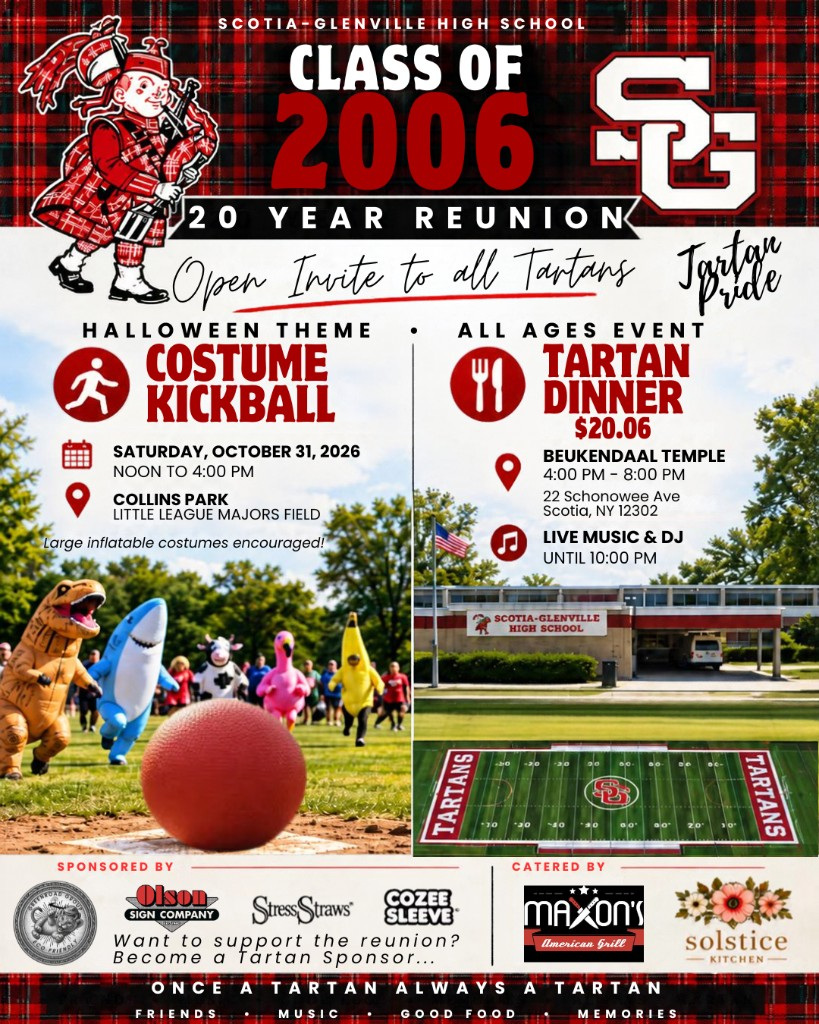
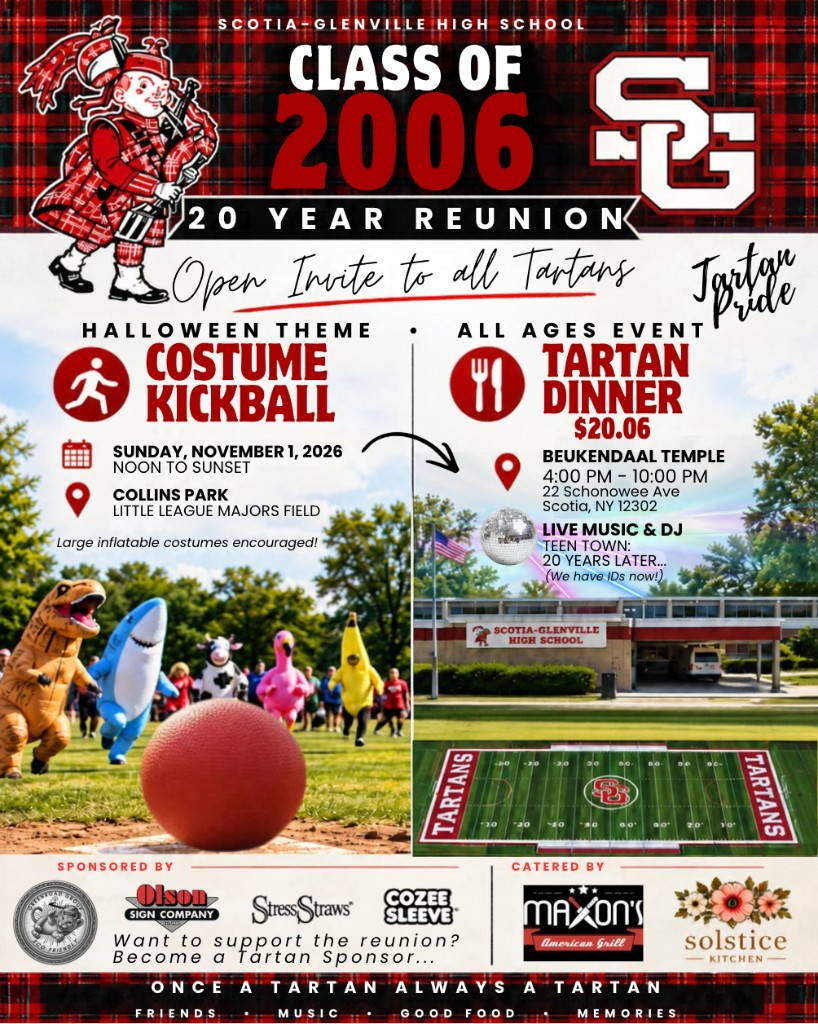
Update reunion to November 1 schedule

diff --git a/app/events/scotia-2006/page.tsx b/app/events/scotia-2006/page.tsx
@@ -10,15 +10,15 @@ const POSTER_PATH = "/events/scotia-2006/reunion-poster.jpg";
 export const metadata: Metadata = {
   title: "SGHS Class of 2006 20-Year Reunion | Greenroad",
   description:
-    "Reunion details and dinner tickets for Saturday, October 31, 2026.",
+    "Reunion details and dinner tickets for Sunday, November 1, 2026.",
   openGraph: {
     title: "SGHS Class of 2006 20-Year Reunion",
     description:
-      "Costume Kickball, Tartan Dinner, and live music on Saturday, October 31, 2026.",
+      "Costume Kickball, Tartan Dinner, live music, and Teen Town on Sunday, November 1, 2026.",
     images: [
       {
         url: POSTER_PATH,
-        width: 819,
+        width: 818,
         height: 1024,
         alt: "SGHS Class of 2006 20-Year Reunion poster",
       },
@@ -58,14 +58,14 @@ export default function Scotia2006EventPage() {
           <article className={styles.eventCard}>
             <div className={styles.tartanRibbon}>
               <span>Community Discovery</span>
-              <span>Saturday · October 31 · 2026</span>
+              <span>Sunday · November 1 · 2026</span>
             </div>
 
             <div className={styles.heroMedia}>
               <Image
                 src={POSTER_PATH}
                 alt="SGHS Class of 2006 20-Year Reunion poster"
-                width={819}
+                width={818}
                 height={1024}
                 sizes="(max-width: 640px) calc(100vw - 1.25rem), 28rem"
                 className={styles.heroImage}
@@ -77,8 +77,8 @@ export default function Scotia2006EventPage() {
               <p className={styles.eyebrow}>Scotia-Glenville High School</p>
               <h1 id="event-title">Class of 2006 20-Year Reunion</h1>
               <p className={styles.eventIntro}>
-                Costume Kickball, Tartan Dinner, and live music—open to
-                Tartans.
+                Costume Kickball, Tartan Dinner, live music, and Teen
+                Town—open to Tartans.
               </p>
 
               <div className={styles.ticketCallout}>
@@ -112,7 +112,7 @@ export default function Scotia2006EventPage() {
             <summary>Costume Kickball</summary>
             <div>
               <p>
-                <strong>Noon–4 PM · Collins Park</strong>
+                <strong>Noon to sunset · Collins Park</strong>
               </p>
               <p>
                 Little League Majors Field. Free, all ages, and open to
@@ -125,11 +125,13 @@ export default function Scotia2006EventPage() {
             <summary>Tartan Dinner &amp; Music</summary>
             <div>
               <p>
-                <strong>4–8 PM · music and DJ until 10 PM</strong>
+                <strong>4:00–10:00 PM · Beukendaal Temple</strong>
               </p>
               <p>
-                Beukendaal Temple
-                <br />
+                Live music and DJ. Teen Town: 20 years later… (We have IDs
+                now!)
+              </p>
+              <p>
                 22 Schonowee Ave
                 <br />
                 Scotia, NY 12302

diff --git a/lib/reunion-confirmation-email.ts b/lib/reunion-confirmation-email.ts
@@ -76,11 +76,12 @@ export async function sendReunionConfirmationEmail(
     `${order.quantity} ${ticketLabel}`,
     `${numberLabel}: ${ticketNumbers.join(", ")}`,
     "",
-    "Saturday, October 31, 2026",
-    "Costume Kickball: Noon–4 PM, Collins Park",
-    "Tartan Dinner: 4–8 PM, Beukendaal Temple",
+    "Sunday, November 1, 2026",
+    "Costume Kickball: Noon to sunset, Collins Park",
+    "Tartan Dinner: 4:00–10:00 PM, Beukendaal Temple",
     "22 Schonowee Ave, Scotia, NY 12302",
-    "Live Music & DJ until 10 PM",
+    "Live Music & DJ",
+    "Teen Town: 20 years later… (We have IDs now!)",
     "",
     "View Reunion Page",
     reunionUrl,
@@ -141,17 +142,17 @@ export async function sendReunionConfirmationEmail(
                     <table role="presentation" width="100%" cellpadding="0" cellspacing="0" border="0" style="width:100%;border-top:1px solid #c9a84c;">
                       <tr>
                         <td style="padding:12px 0;border-bottom:1px solid #c9a84c;font-family:Arial,Helvetica,sans-serif;font-size:16px;line-height:1.5;color:#1a4a2e;">
-                          <strong>Saturday, October 31, 2026</strong>
+                          <strong>Sunday, November 1, 2026</strong>
                         </td>
                       </tr>
                       <tr>
                         <td style="padding:12px 0;border-bottom:1px solid #c9a84c;font-family:Arial,Helvetica,sans-serif;font-size:16px;line-height:1.5;color:#1a4a2e;">
-                          Costume Kickball: Noon–4 PM, Collins Park
+                          Costume Kickball: Noon to sunset, Collins Park
                         </td>
                       </tr>
                       <tr>
                         <td style="padding:12px 0;border-bottom:1px solid #c9a84c;font-family:Arial,Helvetica,sans-serif;font-size:16px;line-height:1.5;color:#1a4a2e;">
-                          Tartan Dinner: 4–8 PM, Beukendaal Temple
+                          Tartan Dinner: 4:00–10:00 PM, Beukendaal Temple
                         </td>
                       </tr>
                       <tr>
@@ -160,8 +161,13 @@ export async function sendReunionConfirmationEmail(
                         </td>
                       </tr>
                       <tr>
+                        <td style="padding:12px 0;border-bottom:1px solid #c9a84c;font-family:Arial,Helvetica,sans-serif;font-size:16px;line-height:1.5;color:#1a4a2e;">
+                          Live Music &amp; DJ
+                        </td>
+                      </tr>
+                      <tr>
                         <td style="padding:12px 0;font-family:Arial,Helvetica,sans-serif;font-size:16px;line-height:1.5;color:#1a4a2e;">
-                          Live Music &amp; DJ until 10 PM
+                          Teen Town: 20 years later… (We have IDs now!)
                         </td>
                       </tr>
                     </table>

diff --git a/GREENROAD_MEMORY.md b/GREENROAD_MEMORY.md
@@ -1,6 +1,6 @@
 # Greenroad Memory — Agent Handoff
 
-**Last synced:** September 21, 2026 (reunion public facts + Reunion World presentation)
+**Last synced:** October 1, 2026 (reunion poster moved to November 1)
 
 Read `GREENROAD_MEMORY_MAP.md` first, then this file. Do not assume pearl/olive work is on an experiment branch — that is outdated.
 
@@ -20,7 +20,7 @@ Homepage default:  POD Adventure Brite Tumbler 20 oz (app/page.tsx)
 Checkout/proof:    NOT live — inquiry mailto only; manual ADG proof before production
 Full ADG catalog:  NOT live — 7 starter ADG items only
 published field:   Does NOT gate UI — all discoveries render regardless of published:false
-Reunion route:     /events/scotia-2006 presentation exists. Payment, webhook, Supabase, migration, and email code are frozen during presentation work. This is not proof that live sales are open.
+Reunion route:     /events/scotia-2006 presentation exists. Payment, webhook, Supabase, and migration code stay frozen. Confirmation email fact lines match the November 1 poster. This is not proof that live sales are open.
 ```
 
 `experiment/pearl-print-surface` is **historical/backed up**. Pearl/olive material system is live on main.
@@ -33,17 +33,18 @@ Reunion route:     /events/scotia-2006 presentation exists. Payment, webhook, Su
 
 ---
 
-## SGHS Class of 2006 Reunion (locked September 21, 2026)
+## SGHS Class of 2006 Reunion (public facts updated October 1, 2026)
 
 This is the first real Greenroad Community discovery and the only approved
 Stripe exception. Custom Goods remains inquiry-only.
 
 ```text
 Permanent route:       /events/scotia-2006
-Date / time zone:      Saturday, October 31, 2026 / America/New_York
-Costume Kickball:      Collins Park, Little League Majors Field / noon–4 PM / free / all ages / open to Tartans / large inflatable costumes encouraged
-Tartan Dinner:         Beukendaal Temple / 4–8 PM
-Live music and DJ:     until 10 PM
+Date / time zone:      Sunday, November 1, 2026 / America/New_York
+Costume Kickball:      Collins Park, Little League Majors Field / noon to sunset / free / all ages / open to Tartans / large inflatable costumes encouraged
+Tartan Dinner:         Beukendaal Temple / 4:00–10:00 PM
+Live music and DJ:     during the 4:00–10:00 PM Beukendaal block
+Teen Town:             20 years later… (We have IDs now!)
 Dinner address:        22 Schonowee Ave, Scotia, NY 12302
 Ticket total:          $20.06 each, tax included; never add tax on top
 Batch 1:               80 tickets
@@ -101,7 +102,9 @@ Phase 1 artifacts were completed September 21, 2026:
 3. create reviewable Supabase migration SQL
 
 Reunion World presentation at `/events/scotia-2006` is authorized. Do not edit
-payment, webhook, Supabase, migration, or email code during presentation work.
+payment, webhook, Supabase, or migration code during presentation work.
+Confirmation email fact lines were updated October 1, 2026 to match the
+November 1 poster; leave the rest of that email alone.
 This note does not verify that migrations are applied or that live sales are open.
 
 ---
@@ -513,12 +516,13 @@ The SGHS Class of 2006 reunion is the only approved Stripe exception. Permanent
 route: /events/scotia-2006. Batch 1: 80 tickets, max_per_order 8 in batch data,
 30-minute buyer Checkout, 35-minute pre-Stripe safety hold, $20.06 total per
 dinner ticket tax included.
-Canonical public facts: Costume Kickball noon–4 PM at Collins Park, Little
-League Majors Field; Tartan Dinner 4–8 PM at Beukendaal Temple, 22 Schonowee
-Ave, Scotia, NY 12302; live music and DJ until 10 PM; $20.06 tax included.
+Canonical public facts: Sunday, November 1, 2026. Costume Kickball noon to
+sunset at Collins Park, Little League Majors Field; Tartan Dinner 4:00–10:00 PM
+at Beukendaal Temple, 22 Schonowee Ave, Scotia, NY 12302; live music and DJ;
+Teen Town: 20 years later… (We have IDs now!); $20.06 tax included.
 Never show a public inventory count. Reunion World presentation is authorized.
-Do not edit payment, webhook, Supabase, migration, or email code. No git, no
-.env. Do not assume live sales are open.
+Do not edit payment, webhook, Supabase, or migration code. Confirmation email
+fact lines match this poster. No git, no .env. Do not assume live sales are open.
 ```
 
 ### Surgical ADG product add

diff --git a/GREENROAD_MEMORY_MAP.md b/GREENROAD_MEMORY_MAP.md
@@ -31,7 +31,7 @@ Custom goods are the first practical sales lane because they match Jai's current
 
 **Better everyday goods are the trust and content engine.**
 
-## Reunion Ticketing Exception (Locked September 21, 2026)
+## Reunion Ticketing Exception (public facts updated October 1, 2026)
 
 The SGHS Class of 2006 reunion is the first real Greenroad Community discovery
 and the only currently authorized Stripe commerce build.
@@ -39,13 +39,14 @@ and the only currently authorized Stripe commerce build.
 Locked boundaries:
 
 * Permanent public route: `/events/scotia-2006`
-* Event date: Saturday, October 31, 2026
+* Event date: Sunday, November 1, 2026
 * Time zone: `America/New_York`
-* Costume Kickball: noon–4 PM, Collins Park, Little League Majors Field,
+* Costume Kickball: noon to sunset, Collins Park, Little League Majors Field,
   Scotia, NY. Free, all ages, open to Tartans. Large inflatable costumes
   are encouraged
-* Tartan Dinner: 4–8 PM, Beukendaal Temple, 22 Schonowee Ave, Scotia, NY 12302
-* Live music and DJ until 10 PM
+* Tartan Dinner: 4:00–10:00 PM, Beukendaal Temple, 22 Schonowee Ave, Scotia, NY 12302
+* Live music and DJ during that Beukendaal block
+* Teen Town: 20 years later… (We have IDs now!)
 * Current public artwork: `public/events/scotia-2006/reunion-poster.jpg`.
   Logos printed inside that poster may show with the artwork. Do not add
   those logos to the Hometown Partners section unless Jai approves them
@@ -460,10 +461,12 @@ Phase 1 artifacts were created September 21, 2026:
 2. restore or park the previous broad Stripe scope
 3. create reviewable Supabase migration SQL without applying it
 
-Public reunion facts were corrected later on September 21, 2026 to the current
-poster: noon–4 PM kickball, 4–8 PM dinner, Scotia, NY 12302. Reunion World
+Public reunion facts were updated October 1, 2026 to the current poster:
+Sunday, November 1, 2026; noon-to-sunset kickball; 4:00–10:00 PM dinner with
+live music, DJ, and Teen Town; Scotia, NY 12302. Reunion World
 presentation at `/events/scotia-2006` is authorized. Do not edit payment,
-webhook, Supabase, migration, or email code during presentation work. Do not
+webhook, Supabase, or migration code during presentation work. Confirmation
+email fact lines match this poster. Do not
 treat this note as proof that live ticket sales are open.
 Do not use git, read `.env` / `.env.local`, touch live Stripe, or apply Supabase
 migrations.
@@ -551,7 +554,7 @@ Do not build yet:
 * full ADG catalog
 * Custom Goods payment / Stripe
 * generic checkout, invoicing, Terminal/POS, or subscriptions
-* edits to reunion payment, webhook, Supabase, migration, or email code during
+* edits to reunion payment, webhook, Supabase, or migration code during
   presentation work
 * proof editor
 * account system
@@ -598,7 +601,7 @@ GOSHBOT should warn when:
 * a sequential capacity test is represented as proof of concurrent safety;
   pre-launch QA requires a real two-session database concurrency test
 * accordion or section headings are left on forest backdrop without pearl reading surfaces where legibility fails
-* public reunion copy uses noon–sunset, a 5 PM dinner, or a Schenectady address
+* public reunion copy uses October 31, a noon–4 PM kickball, a 4–8 PM dinner, a 5 PM dinner, or a Schenectady address
 * a public reunion surface shows a ticket inventory count or “only 80 tickets”
 
 ## One-Sentence Current Truth
@@ -606,6 +609,7 @@ GOSHBOT should warn when:
 Greenroad Group is an upscale better-goods and custom-goods commerce project:
 sustainability is the north star, Custom Goods Station remains inquiry-only,
 and the SGHS Class of 2006 reunion is the sole approved Stripe exception.
-Canonical public facts match the current reunion poster, and Reunion World
+Canonical public facts match the November 1, 2026 reunion poster, and Reunion World
 presentation is authorized at `/events/scotia-2006`. Payment, webhook,
-Supabase, migration, and email code stay frozen unless Jai opens that work.
+Supabase, and migration code stay frozen unless Jai opens that work.
+Confirmation email fact lines match the poster.

diff --git a/AGENT_NOTES.md b/AGENT_NOTES.md
@@ -24,14 +24,16 @@ Begin every build session with:
 
 The SGHS Class of 2006 reunion is the only approved Stripe exception.
 
-Canonical public facts match the current poster: Costume Kickball noon–4 PM
-at Collins Park, Little League Majors Field; Tartan Dinner 4–8 PM at
-Beukendaal Temple, 22 Schonowee Ave, Scotia, NY 12302; live music and DJ
-until 10 PM; dinner tickets $20.06, tax included. Never show a public
+Canonical public facts match the November 1, 2026 poster: Costume Kickball
+noon to sunset at Collins Park, Little League Majors Field; Tartan Dinner
+4:00–10:00 PM at Beukendaal Temple, 22 Schonowee Ave, Scotia, NY 12302;
+live music and DJ; Teen Town: 20 years later… (We have IDs now!); dinner
+tickets $20.06, tax included. Never show a public
 inventory count or “only 80 tickets.”
 
 Reunion World presentation at `/events/scotia-2006` is authorized. Do not
-edit payment, webhook, Supabase, migration, or email code. Do not assume
+edit payment, webhook, Supabase, or migration code. Confirmation email fact
+lines match this poster. Do not assume
 live sales are open. Custom Goods remains inquiry-only. Do not touch Custom
 Goods carousel physics.
 
@@ -65,11 +67,11 @@ Reunion route:     /events/scotia-2006 presentation exists. Payment machinery is
 
 - First real Community discovery: SGHS Class of 2006 reunion
 - Permanent route: `/events/scotia-2006`
-- Saturday, October 31, 2026; `America/New_York`
-- Costume Kickball: Collins Park, Little League Majors Field, noon–4 PM,
+- Sunday, November 1, 2026; `America/New_York`
+- Costume Kickball: Collins Park, Little League Majors Field, noon to sunset,
   free, all ages, open to Tartans; large inflatable costumes encouraged
 - Tartan Dinner: Beukendaal Temple, 22 Schonowee Ave, Scotia, NY 12302,
-  4–8 PM; live music and DJ until 10 PM
+  4:00–10:00 PM; live music and DJ; Teen Town: 20 years later… (We have IDs now!)
 - Current public artwork is `public/events/scotia-2006/reunion-poster.jpg`.
   Logos printed into the poster may show with the artwork. Hometown Partners
   stays logo-free until Jai approves those businesses as web sponsors.
@@ -182,7 +184,7 @@ Memory docs synced: `GREENROAD_MEMORY.md`, knowledge base, PRD, roadmap, session
 | UX-001 | High | Print legibility over forest backdrop — accordion triggers + section headings need pearl scrims; test all room backgrounds |
 | UX-002 | Later | Live ADG color swatches + logo quick-render preview |
 | UX-003 | Later | ADG proof approval gate — quick render is draft; ADG mockup required before production |
-| EVT-001 | Presentation | Reunion public facts match the current poster. Reunion World presentation is authorized. Payment, webhook, Supabase, migration, and email code stay frozen |
+| EVT-001 | Presentation | Reunion public facts match the November 1, 2026 poster. Reunion World presentation is authorized. Payment, webhook, Supabase, and migration code stay frozen. Confirmation email fact lines match the poster |
 
 ---
 

diff --git a/LAUNCH_ROADMAP.md b/LAUNCH_ROADMAP.md
@@ -164,12 +164,13 @@ ZEYODA is internal-only parent/foundation memory and should not appear in public
 The SGHS Class of 2006 reunion is the sole approved Stripe exception. Custom
 Goods remains inquiry-only.
 
-Canonical public facts, corrected September 21, 2026 from the current poster:
+Canonical public facts, updated October 1, 2026 from the current poster:
 
-- Costume Kickball, noon–4 PM, Collins Park, Little League Majors Field
+- Sunday, November 1, 2026
+- Costume Kickball, noon to sunset, Collins Park, Little League Majors Field
 - Free, all ages, open to Tartans; large inflatable costumes encouraged
-- Tartan Dinner, 4–8 PM, Beukendaal Temple, 22 Schonowee Ave, Scotia, NY 12302
-- Live music and DJ until 10 PM
+- Tartan Dinner, 4:00–10:00 PM, Beukendaal Temple, 22 Schonowee Ave, Scotia, NY 12302
+- Live music and DJ, plus Teen Town: 20 years later… (We have IDs now!)
 - Dinner ticket $20.06, tax included
 - Never show a public inventory count or “only 80 tickets”
 - Reunion World presentation is authorized. Do not edit payment machinery
